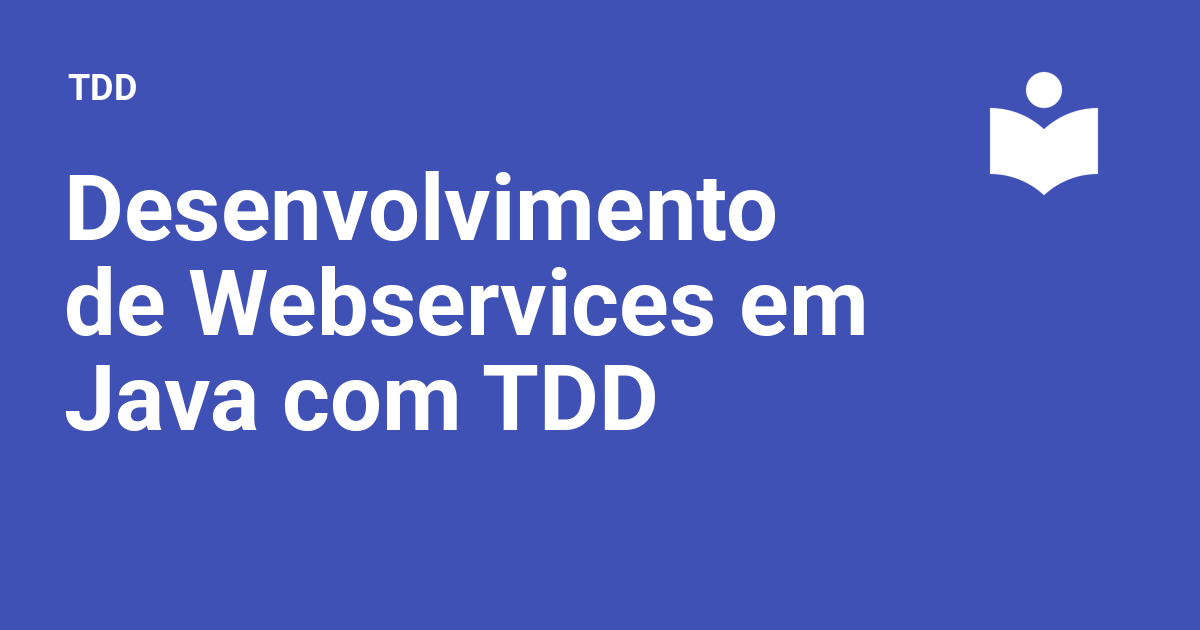
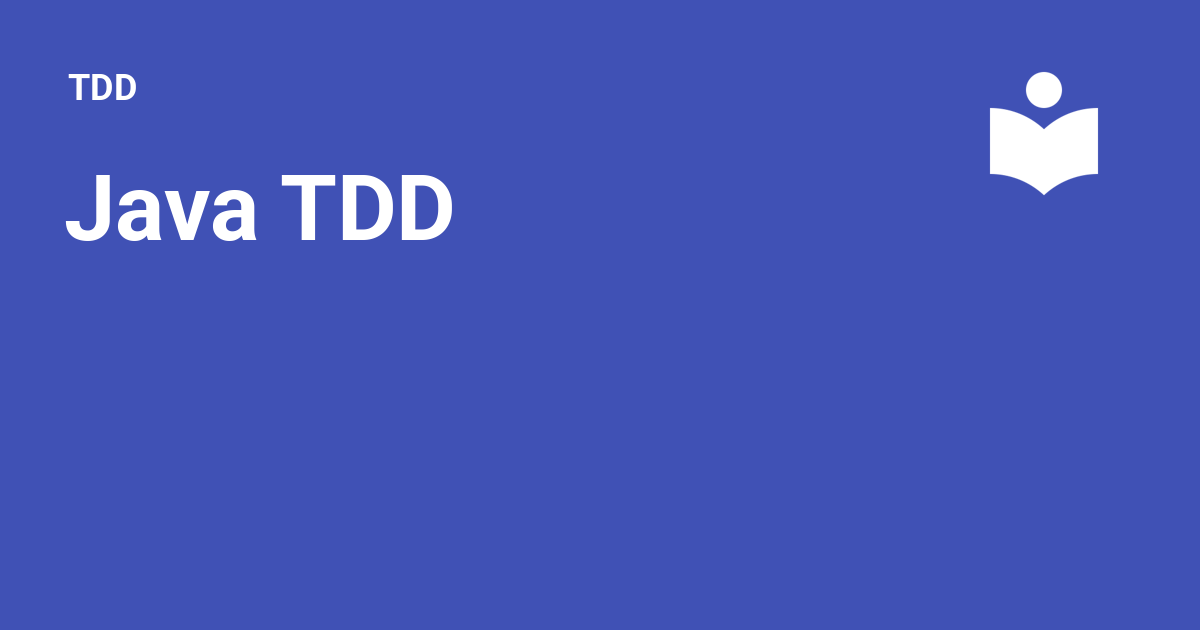
Deployed 22a8c14 with MkDocs version: 1.6.1

Changed region(s): [[0.0308, 0.4222, 0.74, 0.5429], [0.0308, 0.2714, 0.6475, 0.3921], [0.0617, 0.573, 0.555, 0.6937]]

diff --git a/index.html b/index.html
@@ -33,7 +33,7 @@
 <input autocomplete="off" class="md-toggle" data-md-toggle="search" id="__search" type="checkbox"/>
 <label class="md-overlay" for="__drawer"></label>
 <div data-md-component="skip">
-<a class="md-skip" href="#desenvolvimento-de-webservices-em-java-com-tdd">
+<a class="md-skip" href="#java-tdd">
           Skip to content
         </a>
 </div>
@@ -57,7 +57,7 @@
 <div class="md-header__topic" data-md-component="header-topic">
 <span class="md-ellipsis">
             
-              Desenvolvimento de Webservices em Java com TDD
+              Java TDD
             
           </span>
 </div>
@@ -130,7 +130,7 @@
   
     
   
-  Desenvolvimento de Webservices em Java com TDD
+  Java TDD
 
       </a>
 </li>
@@ -164,13 +164,13 @@
 <input class="md-nav__toggle md-toggle" id="__toc" type="checkbox"/>
 <label class="md-nav__link md-nav__link--active" for="__toc">
 <span class="md-ellipsis">
-    Desenvolvimento de Webservices em Java com TDD
+    Java TDD
   </span>
 <span class="md-nav__icon md-icon"></span>
 </label>
 <a class="md-nav__link md-nav__link--active" href=".">
 <span class="md-ellipsis">
-    Desenvolvimento de Webservices em Java com TDD
+    Java TDD
   </span>
 </a>
 <nav aria-label="Table of contents" class="md-nav md-nav--secondary">
@@ -401,7 +401,7 @@
 </div>
 <div class="md-content" data-md-component="content">
 <article class="md-content__inner md-typeset">
-<h1 id="desenvolvimento-de-webservices-em-java-com-tdd">Desenvolvimento de Webservices em Java com TDD<a class="headerlink" href="#desenvolvimento-de-webservices-em-java-com-tdd" title="Permanent link">¶</a></h1>
+<h1 id="java-tdd">Java TDD<a class="headerlink" href="#java-tdd" title="Permanent link">¶</a></h1>
 <h2 id="1-introducao">1. Introdução<a class="headerlink" href="#1-introducao" title="Permanent link">¶</a></h2>
 <p>Test-Driven Development (TDD) é uma abordagem de desenvolvimento onde os testes são escritos antes da implementação do código. Isso garante que o software seja desenvolvido com qualidade, cobertura de testes adequada e redução de bugs.</p>
 <p>Este documento aborda o desenvolvimento de um webservice em <strong>Java</strong> utilizando <strong>Spring Boot</strong> e <strong>JUnit 5</strong>, seguindo os princípios do TDD. Serão apresentados exemplos práticos da hierarquia de testes, desde <strong>models</strong> até <strong>repositories</strong>, <strong>services</strong>, <strong>controllers</strong>, e boas práticas para otimização de testes quando o prazo é curto.</p>

diff --git a/404.html b/404.html
@@ -216,7 +216,7 @@
   
     
   
-  Desenvolvimento de Webservices em Java com TDD
+  Java TDD
 
       </a>
     </li>
@@ -279,7 +279,7 @@
         
   
   <span class="md-ellipsis">
-    Desenvolvimento de Webservices em Java com TDD
+    Java TDD
   </span>
   
 
